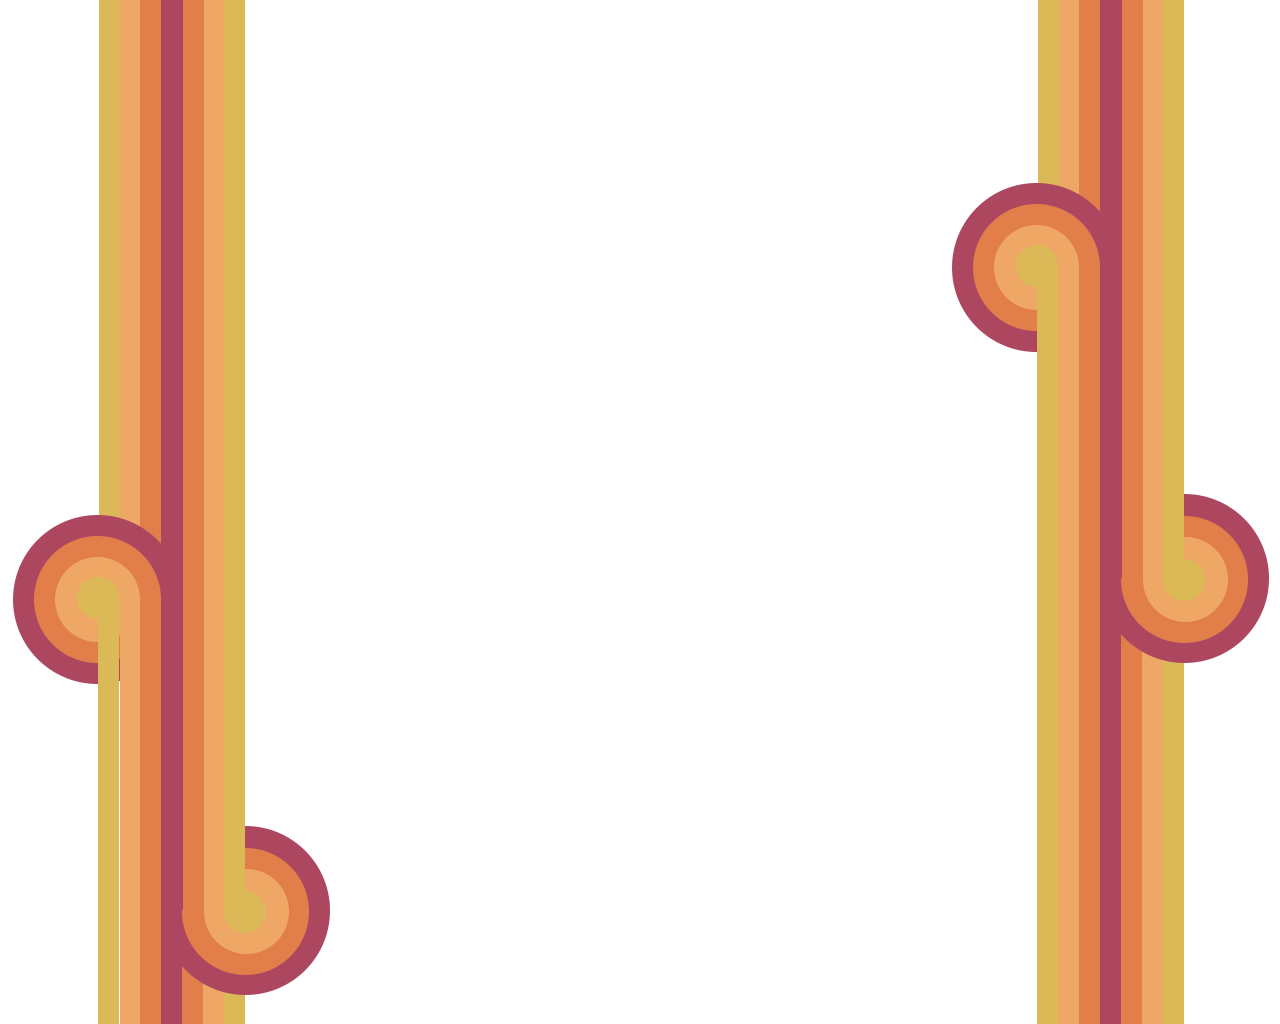
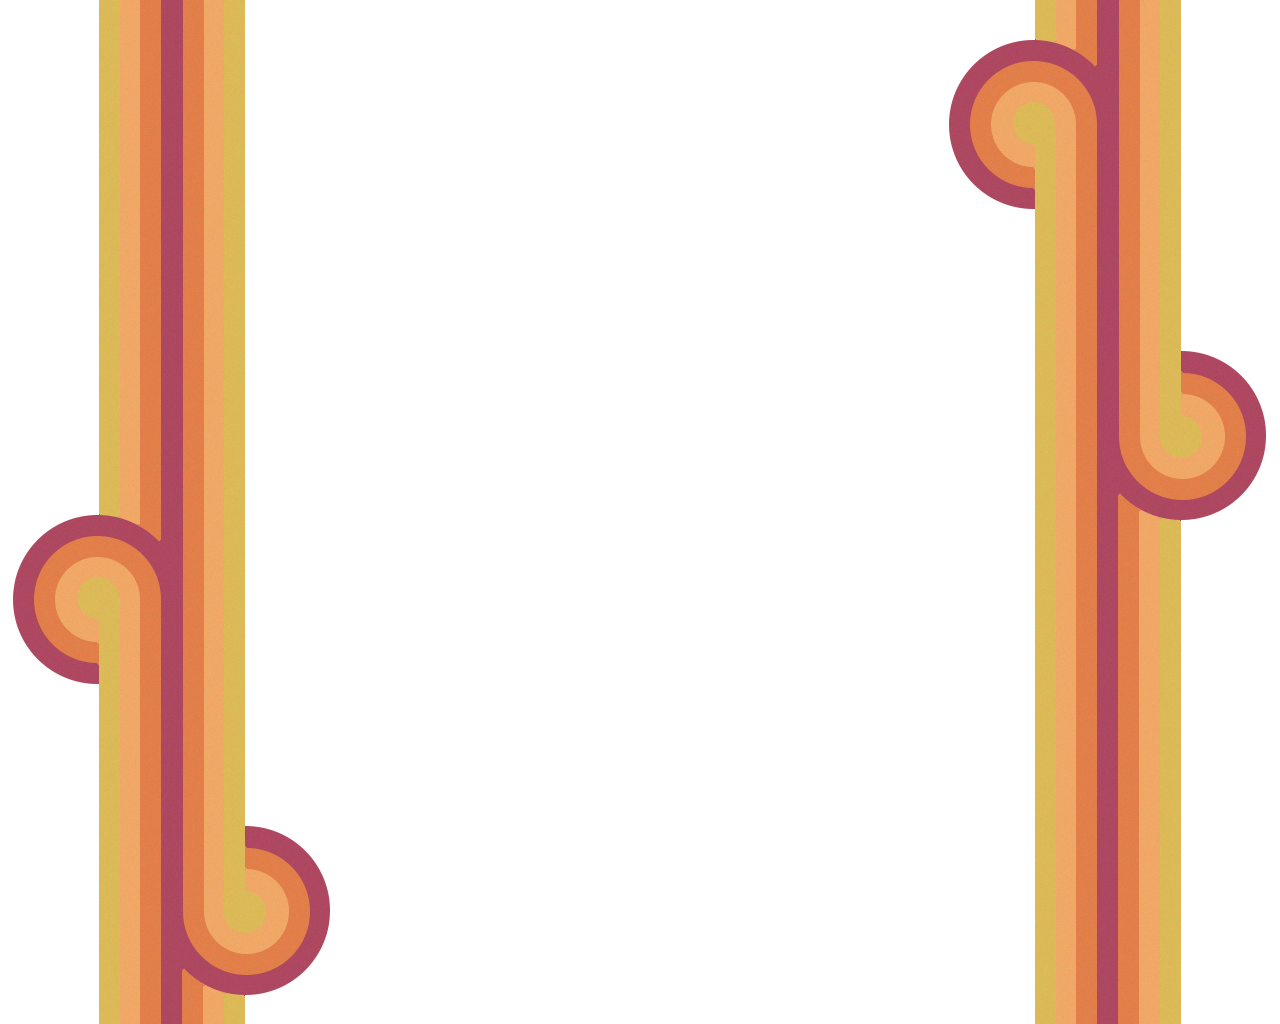
Better Loops

Changed region(s): [[0.7188, 0.0, 1.0, 1.0]]

diff --git a/rsvp.html b/rsvp.html
@@ -8,7 +8,7 @@
 		<script src="https://kit.fontawesome.com/15088ec22c.js" crossorigin="anonymous"></script>
 		<script src="https://d3js.org/d3.v4.min.js"></script>
 	</head>
-	<body style="background-color:#61abc7; background-image:url('./assets/images/bgloopdloops.png');">
+	<body style="background-color:#61abc7; background-image:url('./assets/images/bgloopdloops.png'); background-repeat:no-repeat;">
 		<p style="text-align:center">
 			<iframe src="https://docs.google.com/forms/d/e/1FAIpQLSfmIhlCPD0cmnkE4LO3akfpVjXD01s6e2gSeZquhjHK4NxLqQ/viewform?embedded=true" width="640" height="2431" frameborder="0" marginheight="0" marginwidth="0">Loading…</iframe>
 		</p>
